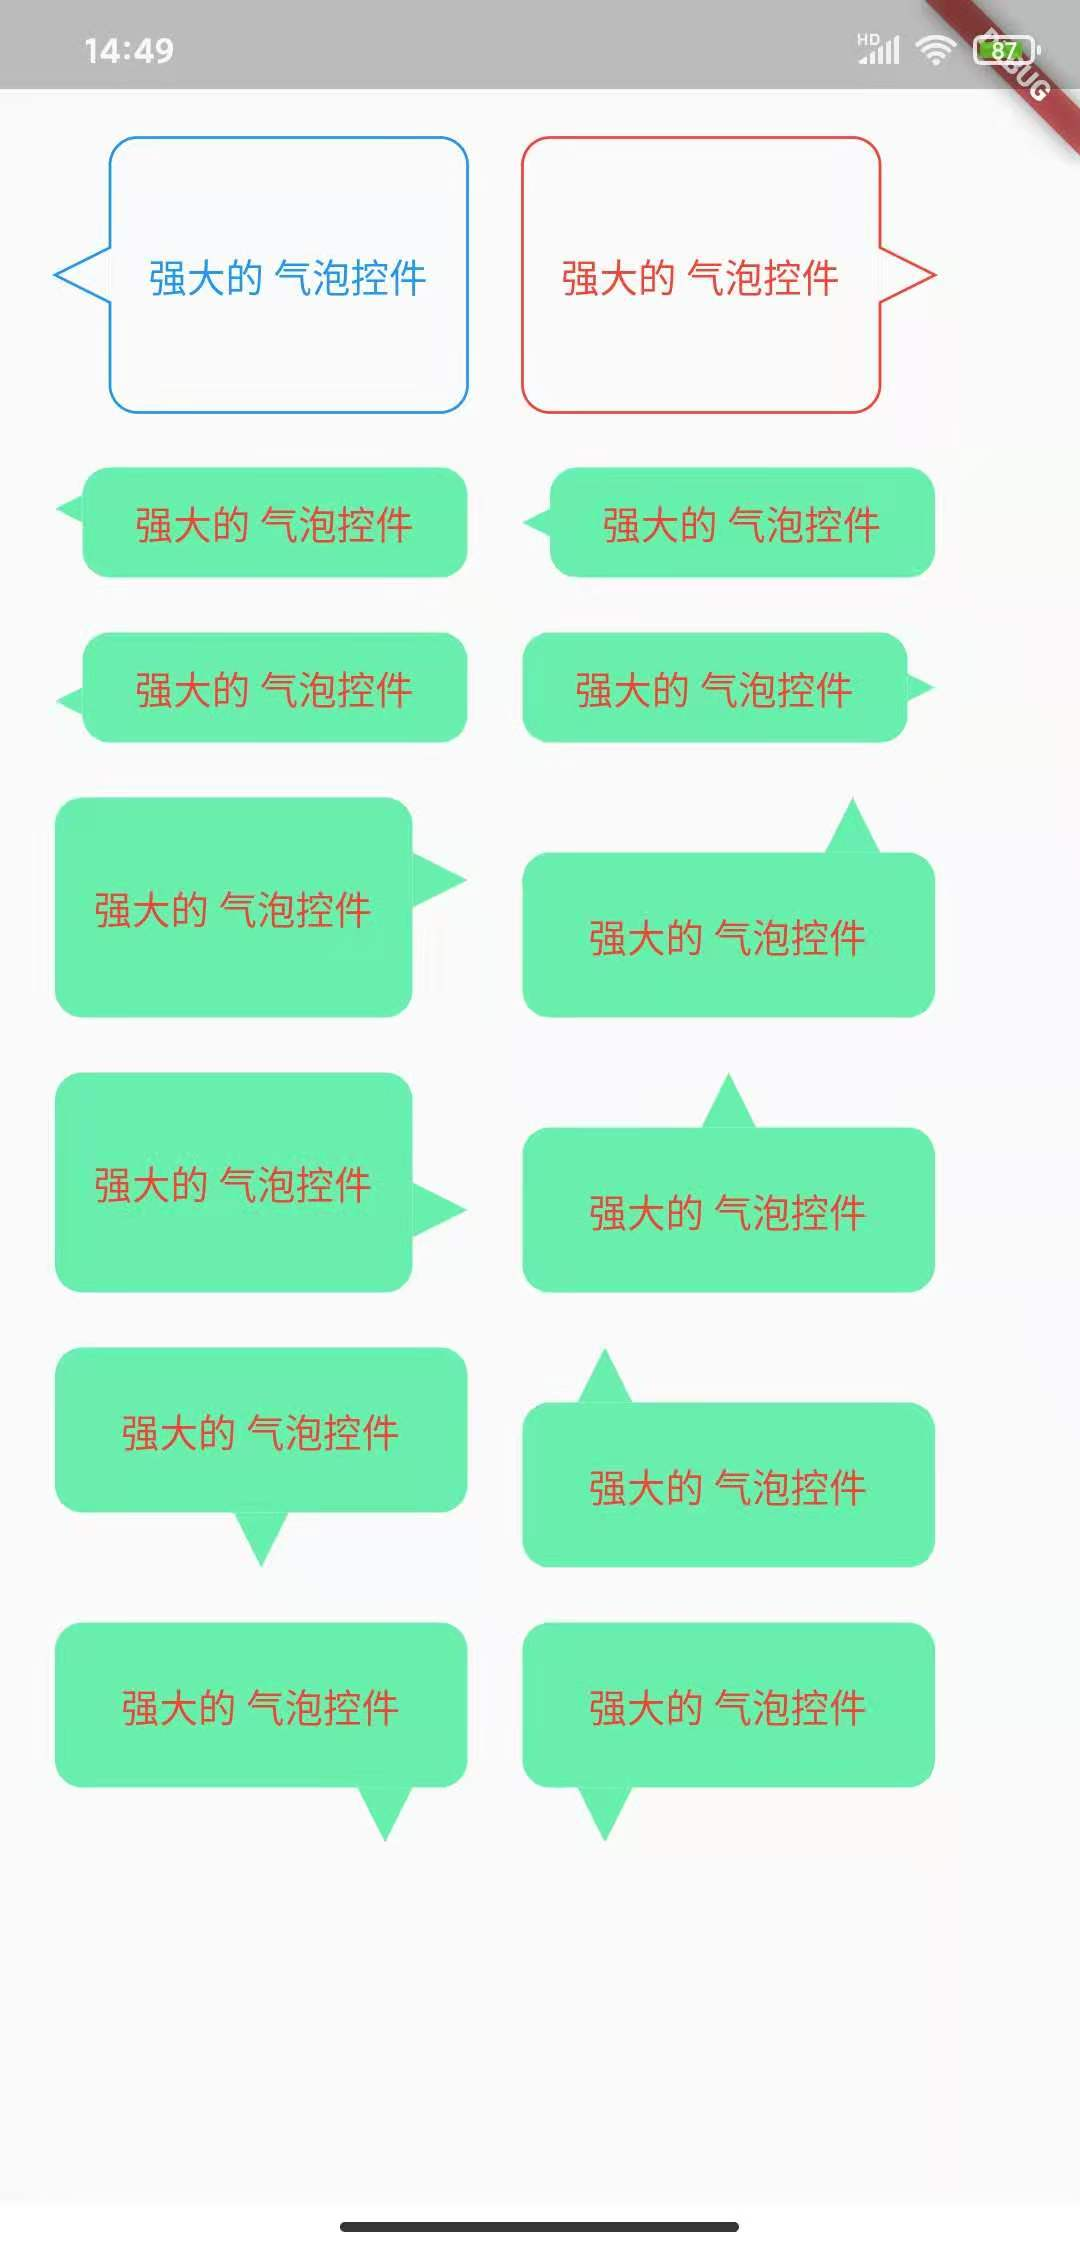
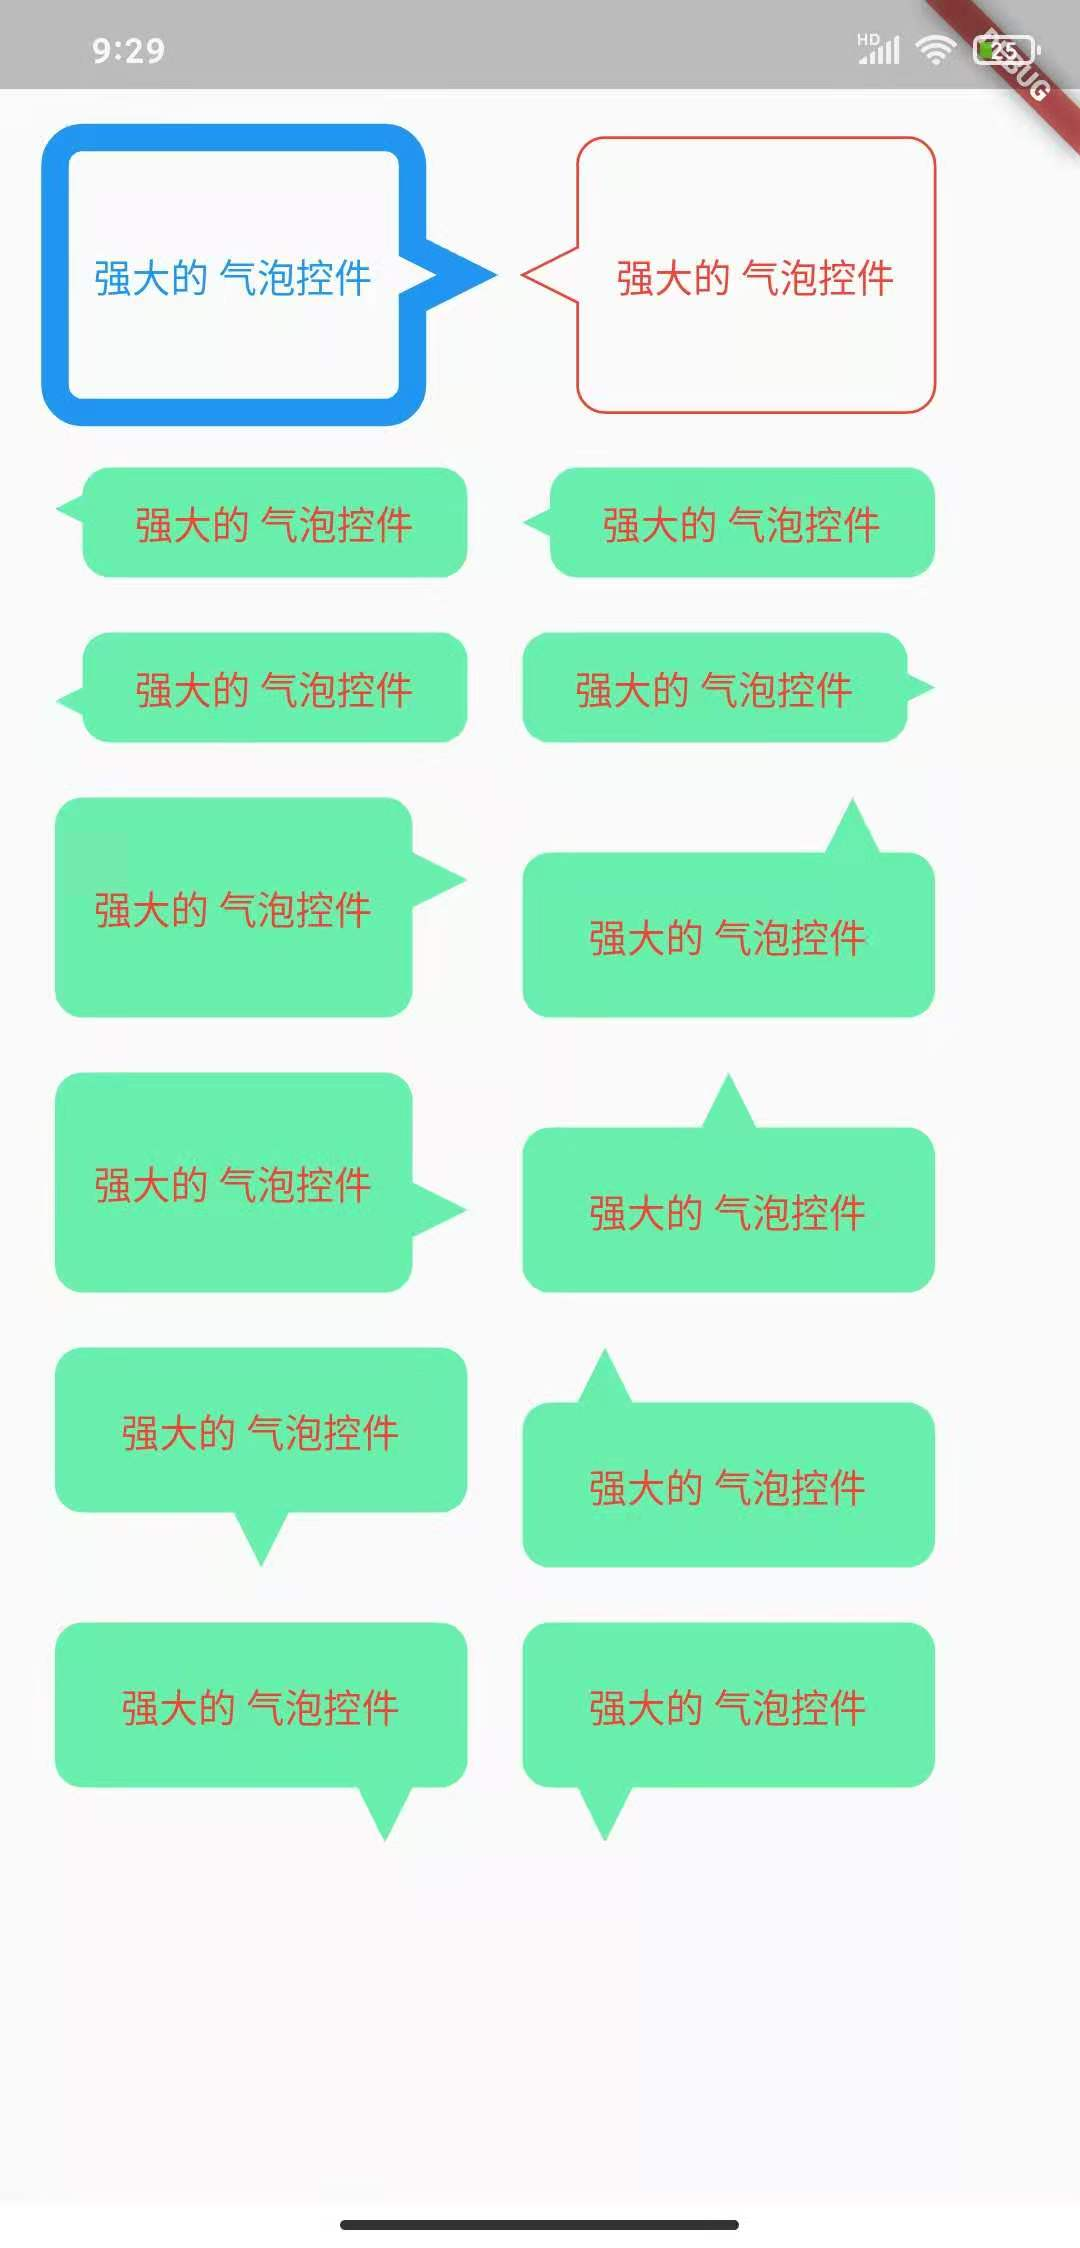
版本1.0.3优化尖角部位的绘制

diff --git a/lib/src/bubble_painter.dart b/lib/src/bubble_painter.dart
@@ -21,8 +21,6 @@ class BubblePainter extends CustomPainter {
 
   // 边框宽度 当style 是边框时 有效
   double stokeWidth;
-  // 边框宽度 当style 是边框时 有效
-  Color backgroundColor;
 
   // 圆角 大小 矩形部分
   double radius;
@@ -43,7 +41,6 @@ class BubblePainter extends CustomPainter {
       this.style,
       this.position,
       this.stokeWidth,
-      this.backgroundColor,
       this.radius,
       this.arrowMargin,
       this.arrowHeight,
@@ -66,22 +63,6 @@ class BubblePainter extends CustomPainter {
     canvas.restore();
   }
 
-  /*
-   * 当 style 是 stroke 时 设置 尖角的底部颜色为背景色
-   */
-  void _drawArrowBottom(Canvas canvas, Paint paint, Offset start, Offset end){
-    if(style == PaintingStyle.fill){
-      return;
-    }
-    canvas.drawLine(start, end, paint);
-    paint..color = backgroundColor;
-    canvas.drawLine(start, end, paint);
-    canvas.drawLine(start, end, paint);
-    canvas.drawLine(start, end, paint);
-    canvas.drawLine(start, end, paint);
-    paint..color = color;
-  }
-
   void _drawRights(Canvas canvas, Paint paint) {
     if (position == BubbleArrowPosition.rightTop ||
         position == BubbleArrowPosition.right ||
@@ -89,37 +70,26 @@ class BubblePainter extends CustomPainter {
       // 先画一个矩形，然后再画尖角
       // 先画一个矩形，然后再画尖角
       Path path = Path();
-      canvas.save();
-      path.addRRect(
-          RRect.fromLTRBXY(0, 0, width-arrowHeight, height, radius, radius));
-      canvas.drawPath(path, paint);
-      path.reset();
-      canvas.restore();
+      Path rectPath = Path()..addRRect(RRect.fromLTRBXY(0, 0, width-arrowHeight, height, radius, radius));
 
       // 尖角 起始点
       if(position == BubbleArrowPosition.rightTop ){
-        _drawArrowBottom(canvas, paint, Offset(width-arrowHeight, arrowMargin + stokeWidth/2), Offset(width-arrowHeight, arrowMargin + arrowWidth - stokeWidth/2));
-
         path.relativeMoveTo(width-arrowHeight,  arrowMargin);
       }
 
       if(position == BubbleArrowPosition.right){
-        _drawArrowBottom(canvas, paint, Offset(width-arrowHeight, height/2 - arrowWidth/2 + stokeWidth/2), Offset(width-arrowHeight, height/2 - arrowWidth/2 + arrowWidth - stokeWidth/2));
-
         path.relativeMoveTo(width-arrowHeight, height/2 - arrowWidth/2);
       }
 
       if(position == BubbleArrowPosition.rightBottom ){
-        _drawArrowBottom(canvas, paint, Offset(width-arrowHeight, height- arrowWidth - arrowMargin + stokeWidth/2), Offset(width-arrowHeight, height- arrowWidth - arrowMargin + arrowWidth - stokeWidth/2));
-
         path.relativeMoveTo(width-arrowHeight, height- arrowWidth - arrowMargin);
       }
 
       path.relativeLineTo(arrowHeight, arrowWidth/2);
       path.relativeLineTo(-arrowHeight, arrowWidth/2);
-      // path.close();
+      path.close();
 
-      canvas.drawPath(path, paint);
+      canvas.drawPath(Path.combine(PathOperation.union, path, rectPath), paint);
     }
   }
 
@@ -129,37 +99,26 @@ class BubblePainter extends CustomPainter {
         position == BubbleArrowPosition.leftBottom) {
       // 先画一个矩形，然后再画尖角
       Path path = Path();
-      canvas.save();
-      path.addRRect(
-          RRect.fromLTRBXY(arrowHeight, 0, width, height, radius, radius));
-      canvas.drawPath(path, paint);
-      path.reset();
-      canvas.restore();
+
+      Path rectPath = Path()..addRRect(RRect.fromLTRBXY(arrowHeight, 0, width, height, radius, radius));
 
       // 尖角 起始点
       if(position == BubbleArrowPosition.leftTop ){
-        _drawArrowBottom(canvas, paint, Offset(arrowHeight, arrowMargin + stokeWidth/2), Offset(arrowHeight, arrowMargin + arrowWidth - stokeWidth/2));
-
         path.relativeMoveTo(arrowHeight,  arrowMargin);
       }
 
       if(position == BubbleArrowPosition.left){
-        _drawArrowBottom(canvas, paint, Offset(arrowHeight, height/2 - arrowWidth/2 + stokeWidth/2), Offset(arrowHeight, height/2 - arrowWidth/2 + arrowWidth - stokeWidth/2));
-
         path.relativeMoveTo(arrowHeight, height/2 - arrowWidth/2);
       }
 
       if(position == BubbleArrowPosition.leftBottom ){
-        _drawArrowBottom(canvas, paint, Offset(arrowHeight, height- arrowWidth - arrowMargin + stokeWidth/2), Offset(arrowHeight, height- arrowWidth - arrowMargin + arrowWidth - stokeWidth/2));
-
         path.relativeMoveTo(arrowHeight, height- arrowWidth - arrowMargin);
       }
-
       path.relativeLineTo(-arrowHeight, arrowWidth/2);
       path.relativeLineTo(arrowHeight, arrowWidth/2);
-      // path.close();
+      path.close();
 
-      canvas.drawPath(path, paint);
+      canvas.drawPath(Path.combine(PathOperation.union, path, rectPath), paint);
     }
   }
 
@@ -168,37 +127,27 @@ class BubblePainter extends CustomPainter {
         position == BubbleArrowPosition.bottomLeft ||
         position == BubbleArrowPosition.bottomRight) {
       // 先画一个矩形，然后再画尖角
-
       Path path = Path();
-      canvas.save();
-      path.addRRect(
-          RRect.fromLTRBXY(0, 0, width, height-arrowHeight, radius, radius));
-      canvas.drawPath(path, paint);
-      path.reset();
-      canvas.restore();
+      Path rectPath = Path()..addRRect(RRect.fromLTRBXY(0, 0, width, height-arrowHeight, radius, radius));
 
       // 尖角 起始点
       if(position == BubbleArrowPosition.bottomLeft ){
-        _drawArrowBottom(canvas, paint, Offset(arrowMargin+ stokeWidth/2, height- arrowHeight), Offset(arrowMargin+arrowWidth- stokeWidth/2, height- arrowHeight));
         path.relativeMoveTo(arrowMargin, height- arrowHeight);
       }
 
       if(position == BubbleArrowPosition.bottom){
-        _drawArrowBottom(canvas, paint, Offset(width/2 - arrowWidth/2 + stokeWidth/2, height- arrowHeight), Offset(width/2 - arrowWidth/2 + arrowWidth - stokeWidth/2, height- arrowHeight));
         path.relativeMoveTo(width/2 - arrowWidth/2, height- arrowHeight);
       }
 
       if(position == BubbleArrowPosition.bottomRight ){
-        _drawArrowBottom(canvas, paint, Offset(width - arrowMargin - arrowWidth + stokeWidth/2, height- arrowHeight), Offset(width - arrowMargin- stokeWidth/2, height- arrowHeight));
-
         path.relativeMoveTo(width - arrowMargin - arrowWidth, height- arrowHeight);
       }
 
       path.relativeLineTo(arrowWidth / 2, arrowHeight);
       path.relativeLineTo(arrowWidth / 2, -arrowHeight);
-      // path.close();
+      path.close();
 
-      canvas.drawPath(path, paint);
+      canvas.drawPath(Path.combine(PathOperation.union, path, rectPath), paint);
     }
   }
 
@@ -208,37 +157,27 @@ class BubblePainter extends CustomPainter {
         position == BubbleArrowPosition.topRight) {
       // 先画一个矩形，然后再画尖角
       Path path = Path();
-      canvas.save();
-      path.addRRect(
+      Path rectPath = Path()..addRRect(
           RRect.fromLTRBXY(0, arrowHeight, width, height, radius, radius));
-      canvas.drawPath(path, paint);
-      path.reset();
-      canvas.restore();
 
       // 尖角 起始点
       if(position == BubbleArrowPosition.topLeft ){
-        _drawArrowBottom(canvas, paint, Offset(arrowMargin + stokeWidth/2, arrowHeight), Offset(arrowMargin + arrowWidth - stokeWidth/2, arrowHeight));
-
         path.relativeMoveTo(arrowMargin, arrowHeight);
       }
 
       if(position == BubbleArrowPosition.top){
-        _drawArrowBottom(canvas, paint, Offset(width/2 - arrowWidth/2 + stokeWidth/2, arrowHeight), Offset(width/2 - arrowWidth/2 + arrowWidth - stokeWidth/2, arrowHeight));
-
         path.relativeMoveTo(width/2 - arrowWidth/2, arrowHeight);
       }
 
       if(position == BubbleArrowPosition.topRight ){
-        _drawArrowBottom(canvas, paint, Offset(width - arrowMargin - arrowWidth + stokeWidth/2, arrowHeight), Offset(width - arrowMargin - arrowWidth + arrowWidth - stokeWidth/2, arrowHeight));
-
         path.relativeMoveTo(width - arrowMargin - arrowWidth, arrowHeight);
       }
 
       path.relativeLineTo(arrowWidth / 2, -arrowHeight);
       path.relativeLineTo(arrowWidth / 2, arrowHeight);
-      // path.close();
+      path.close();
 
-      canvas.drawPath(path, paint);
+      canvas.drawPath(Path.combine(PathOperation.union, path, rectPath), paint);
     }
   }
 

diff --git a/example/lib/main.dart b/example/lib/main.dart
@@ -40,8 +40,8 @@ class MyHomePage extends StatelessWidget {
               ),
               BubbleWidget(
                 style: PaintingStyle.stroke,
-                backgroundColor: Colors.white,
-                position: BubbleArrowPosition.leftTop,
+                position: BubbleArrowPosition.right,
+                stokeWidth: 10,
                 width: 150,
                 height: 100,
                 arrowWidth: 20,
@@ -162,12 +162,10 @@ class MyHomePage extends StatelessWidget {
               ),
               BubbleWidget(
                 style: PaintingStyle.stroke,
-                backgroundColor: Colors.white,
-                position: BubbleArrowPosition.rightBottom,
+                position: BubbleArrowPosition.left,
                 width: 150,
                 height: 100,
                 arrowWidth: 20,
-                arrowMargin: 40,
                 arrowHeight: 20,
                 color: Colors.red,
                 child: Container(

diff --git a/lib/src/bubble_widget.dart b/lib/src/bubble_widget.dart
@@ -45,8 +45,6 @@ class BubbleWidget extends StatelessWidget {
 
   // 边框宽度 当style 是边框时 有效
   double stokeWidth;
-  // 边框宽度 当style 是边框时 有效
-  Color backgroundColor;
 
   // 圆角 大小 矩形部分
   double radius;
@@ -69,7 +67,6 @@ class BubbleWidget extends StatelessWidget {
     this.style = PaintingStyle.fill,
     this.position = BubbleArrowPosition.topLeft,
     this.stokeWidth = 1,
-    this.backgroundColor = Colors.white,
     this.radius = 10,
     this.arrowMargin = 10,
     this.arrowHeight = 10,
@@ -86,7 +83,7 @@ class BubbleWidget extends StatelessWidget {
 
           CustomPaint(
             painter: BubblePainter(width, height, color, style, position,
-                stokeWidth, backgroundColor,radius, arrowMargin, arrowHeight, arrowWidth),
+                stokeWidth, radius, arrowMargin, arrowHeight, arrowWidth),
           ),
 
           Padding(

diff --git a/README.md b/README.md
@@ -3,10 +3,10 @@ flutter 库，纯 dart 气泡控件
 
 
 在flutter工程中，这是一个强大的全方位的尖角的气泡组件，支持全部终端
+Flutter小部件，用于创建不同类型的聊天气泡。您可以使用此小部件的不同属性并创建漂亮的聊天气泡，也可以用作弹窗背景。
 
 ![image](https://github.com/guqh/flutter_bubble_widget/blob/master/images/3.png)
 
 ![image](https://github.com/guqh/flutter_bubble_widget/blob/master/images/2.png)
-
 
 ![image](https://github.com/guqh/flutter_bubble_widget/blob/master/images/1.jpg)

diff --git a/CHANGELOG.md b/CHANGELOG.md
@@ -9,3 +9,7 @@
 ## [1.0.2]
 
 * 全方位气泡组件 添加使用描述
+
+## [1.0.3]
+
+* 优化尖角部位的绘制
